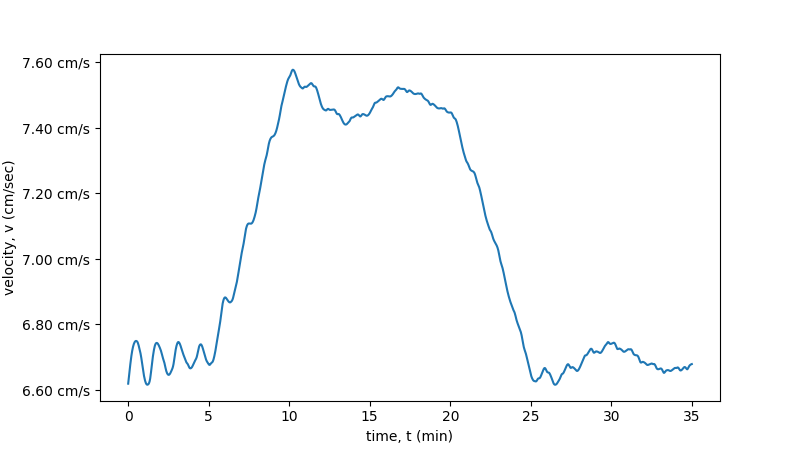
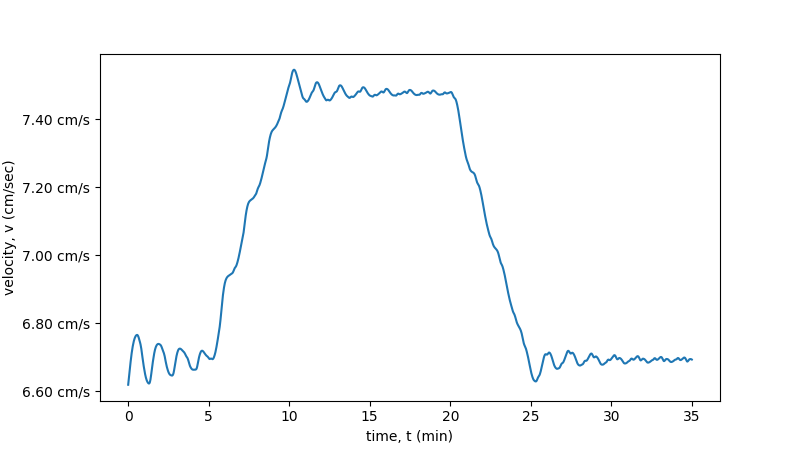
tuning

diff --git a/controller.py b/controller.py
@@ -13,8 +13,8 @@ def prefilter(Qhex,time,tau):
     return Qcore_SP
 
 #Proportional Control Loop
-#Control = True
-Control = False
+Control = True
+#Control = False
 bias = 111.41092285851987
 Ku,Tu = 3e-4,45
 KP = 0.45*Ku
